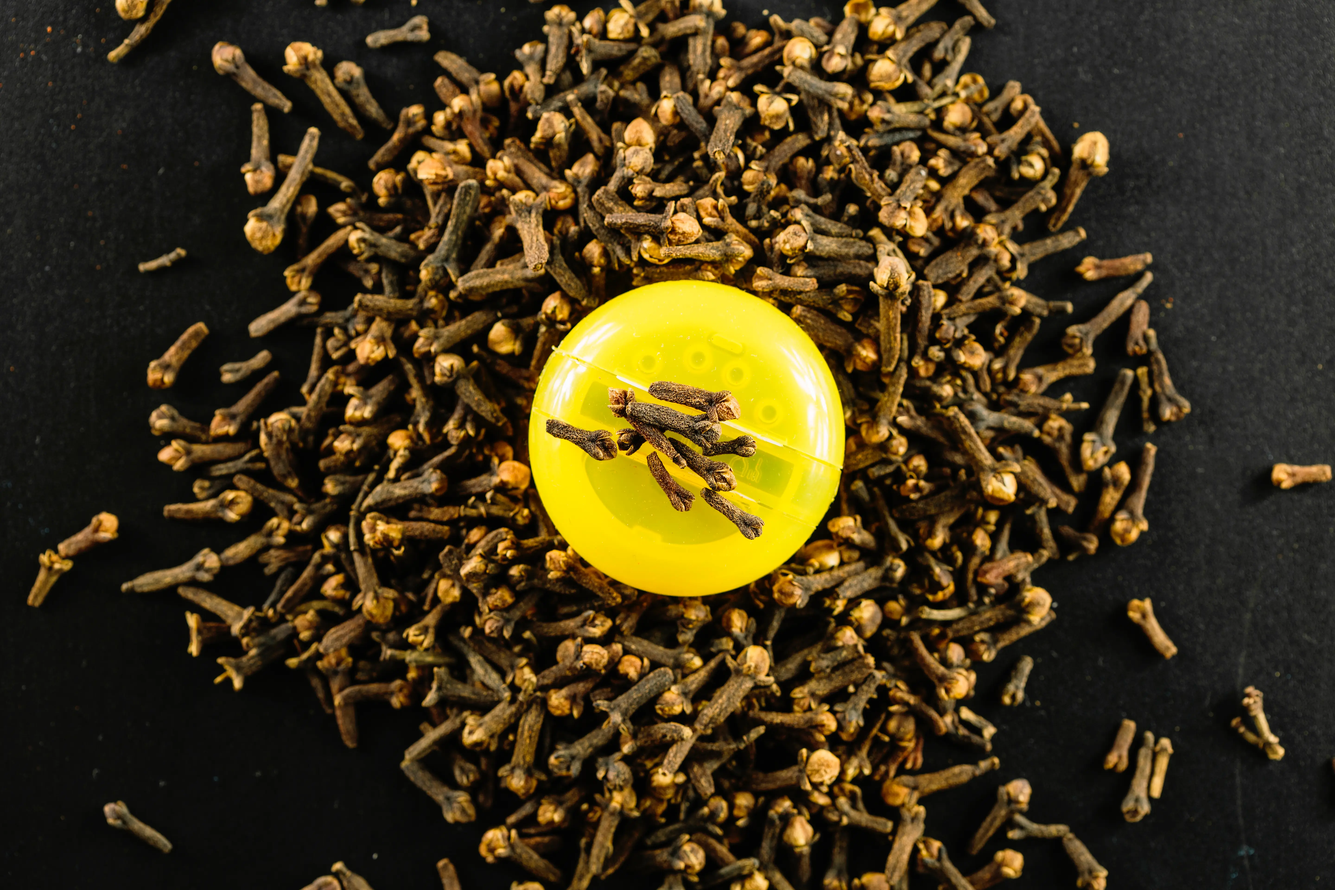
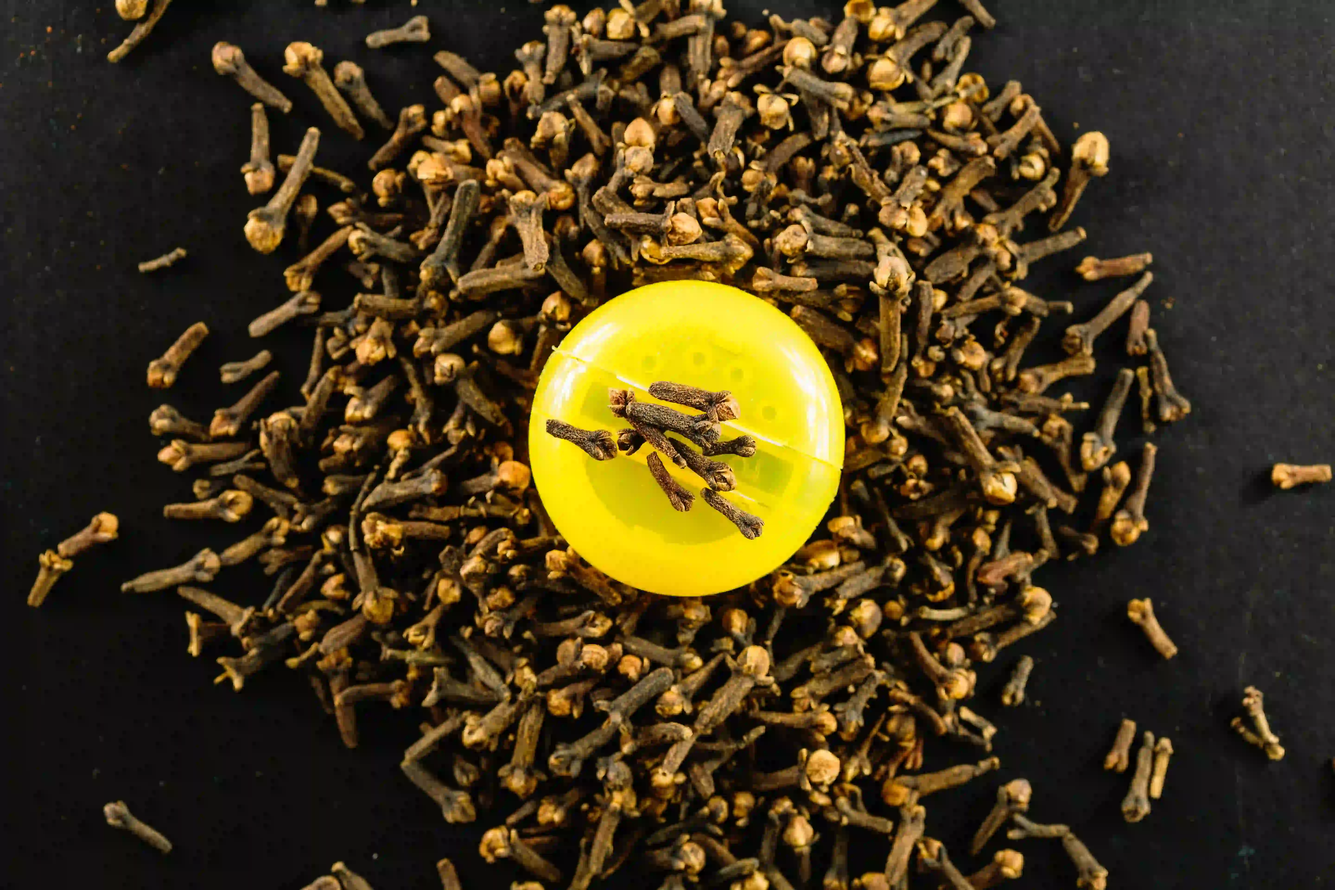
Images fix cloves

diff --git a/top-brand/constants/index.js b/top-brand/constants/index.js
@@ -50,7 +50,7 @@ export const productData = {
     caption: "Strong aroma from fertile islands",
     description:
       "Zanzibar cloves are known for their rich oil content and powerful fragrance. Handpicked at peak maturity for the best flavor. A perfect choice for spice manufacturers, tea blenders, and export buyers seeking premium quality.",
-    image: "/cloves1.jpg",
+    image: "cloves1.webp",
     benefits: [
       "High essential oil content",
       "Strong aroma ideal for blending",
@@ -64,7 +64,7 @@ export const productData = {
     caption: "Warm, sweet aroma with bold flavor",
     description:
       "Madagascar cloves offer a sweet, slightly smoky fragrance and consistent size. Sourced from well-maintained plantations known for reliable export quality.",
-    image: "/cloves2.jpg",
+    image: "cloves2.webp",
     benefits: [
       "Sweet, rich fragrance profile",
       "Consistent size and color",
@@ -78,7 +78,7 @@ export const productData = {
     caption: "Naturally dried with earthy tones",
     description:
       "Comoros cloves are valued for their earthy aroma and balanced oil content. Often chosen by buyers seeking a budget-friendly but high-quality alternative.",
-    image: "/cloves3.webp",
+    image: "cloves3.webp",
     benefits: [
       "Earthy, well-balanced aroma",
       "Budget-friendly alternative",
@@ -92,7 +92,7 @@ export const productData = {
     caption: "Premium grade with high oil levels",
     description:
       "Tanzania produces some of Africa’s top-grade cloves with excellent oil concentration and strong global demand. Known for uniform shape and deep brown color.",
-    image: "/cloves4.jpg",
+    image: "cloves4.webp",
     benefits: [
       "High global demand",
       "Uniform size and color",
@@ -106,7 +106,7 @@ export const productData = {
     caption: "Delicate aroma, premium appearance",
     description:
       "Sri Lankan cloves have a mild, pleasant aroma and are known for their bright coloration. Commonly used in teas, desserts, and pharmaceutical blends.",
-    image: "/cloves5.jpg",
+    image: "cloves5.webp",
     benefits: [
       "Bright color ideal for display",
       "Milder refined aroma",
@@ -120,7 +120,7 @@ export const productData = {
     caption: "Warm flavor used in traditional cooking",
     description:
       "India offers versatile cloves with warm, spicy notes widely used in culinary and medicinal applications. A popular choice across Asian markets.",
-    image: "/cloves6.jpg",
+    image: "cloves6.webp",
     benefits: [
       "Warm spicy flavor",
       "Versatile culinary uses",
@@ -134,7 +134,7 @@ export const productData = {
     caption: "Distinct aroma used in kretek production",
     description:
       "Indonesia is the world’s largest clove producer. These cloves are especially valued for their role in making kretek cigarettes and aromatic spice blends.",
-    image: "/cloves7.jpg",
+    image: "cloves7.webp",
     benefits: [
       "Key ingredient for kretek",
       "Intense aromatic profile",
@@ -148,7 +148,7 @@ export const productData = {
     caption: "Rich color and mild sweetness",
     description:
       "Brazilian cloves feature a slightly sweet taste and are known for their lighter aroma. Suitable for confectionery and flavoring applications.",
-    image: "/cloves8.jpg",
+    image: "cloves8.webp",
     benefits: [
       "Mild sweetness for desserts",
       "Attractive deep color",

diff --git a/top-brand/constants/ProductList.js b/top-brand/constants/ProductList.js
@@ -1,7 +1,7 @@
 /* An array of the clove cards to be looped */
 export const clovesList = [
   {
-    productImg: "/cloves1.jpg",
+    productImg: "cloves1.webp",
     price: 50.0,
     title: "Zanzibar Cloves",
     description:
@@ -9,14 +9,14 @@ export const clovesList = [
   },
 
   {
-    productImg: "/cloves2.jpg",
+    productImg: "cloves2.webp",
     price: 48.0,
     title: "Madagascar Cloves",
     description: "Sweet, smoky cloves delivering bold flavor and aroma.",
   },
 
   {
-    productImg: "/cloves3.webp",
+    productImg: "cloves3.webp",
     price: 45.0,
     title: "Comoros Cloves",
     description:
@@ -24,28 +24,28 @@ export const clovesList = [
   },
 
   {
-    productImg: "/cloves4.jpg",
+    productImg: "cloves4.webp",
     price: 52.0,
     title: "Tanzania Cloves",
     description: "High-oil premium cloves with strong aroma and global demand.",
   },
 
   {
-    productImg: "/cloves5.jpg",
+    productImg: "cloves5.webp",
     price: 55.0,
     title: "Sri Lanka Cloves",
     description: "Bright, mild cloves loved for teas, desserts, and blends.",
   },
 
   {
-    productImg: "/cloves6.jpg",
+    productImg: "cloves6.webp",
     price: 47.0,
     title: "India Cloves",
     description: "Warm, spicy cloves widely used in cooking and medicine.",
   },
 
   {
-    productImg: "/cloves7.jpg",
+    productImg: "cloves7.webp",
     price: 46.0,
     title: "Indonesia Cloves",
     description:
@@ -53,7 +53,7 @@ export const clovesList = [
   },
 
   {
-    productImg: "/cloves8.jpg",
+    productImg: "cloves8.webp",
     price: 44.0,
     title: "Brazil Cloves",
     description:
